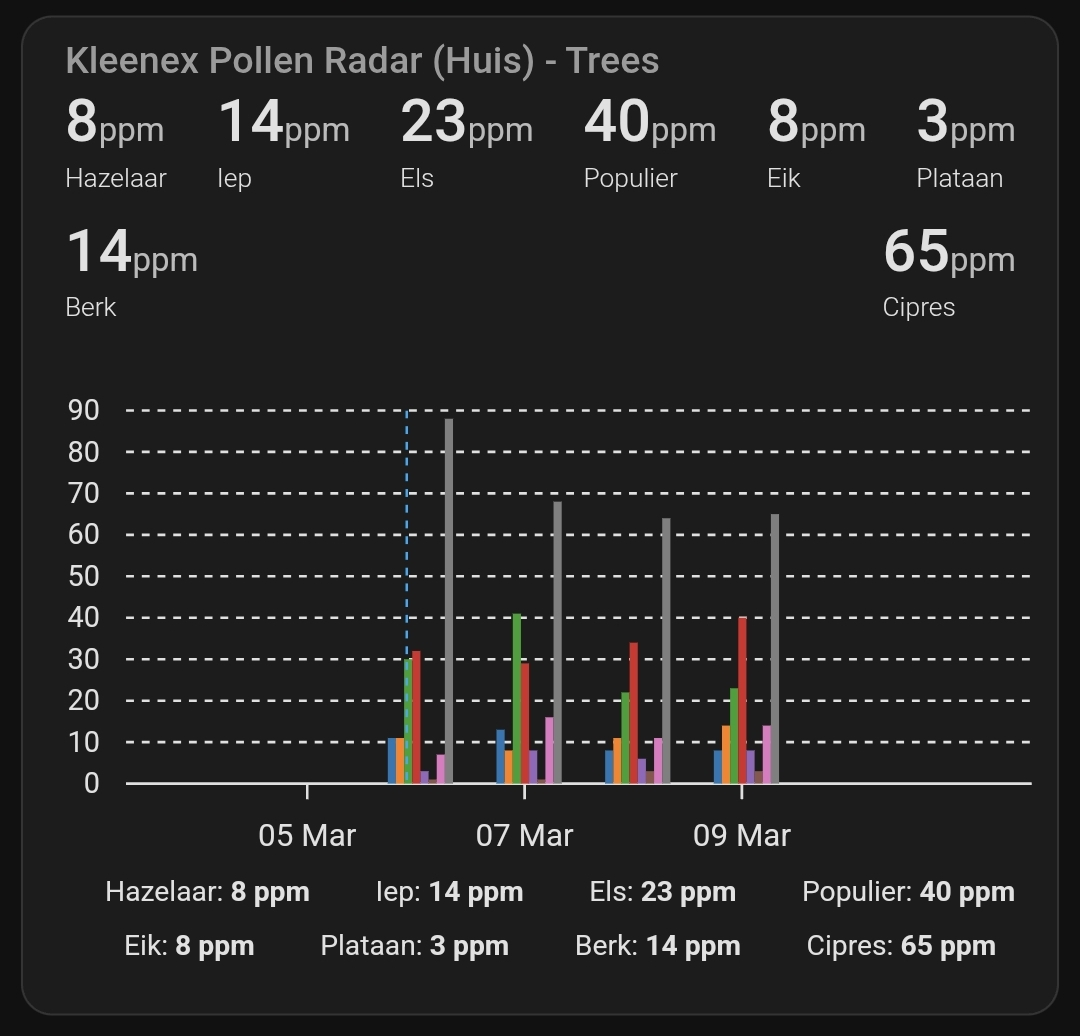
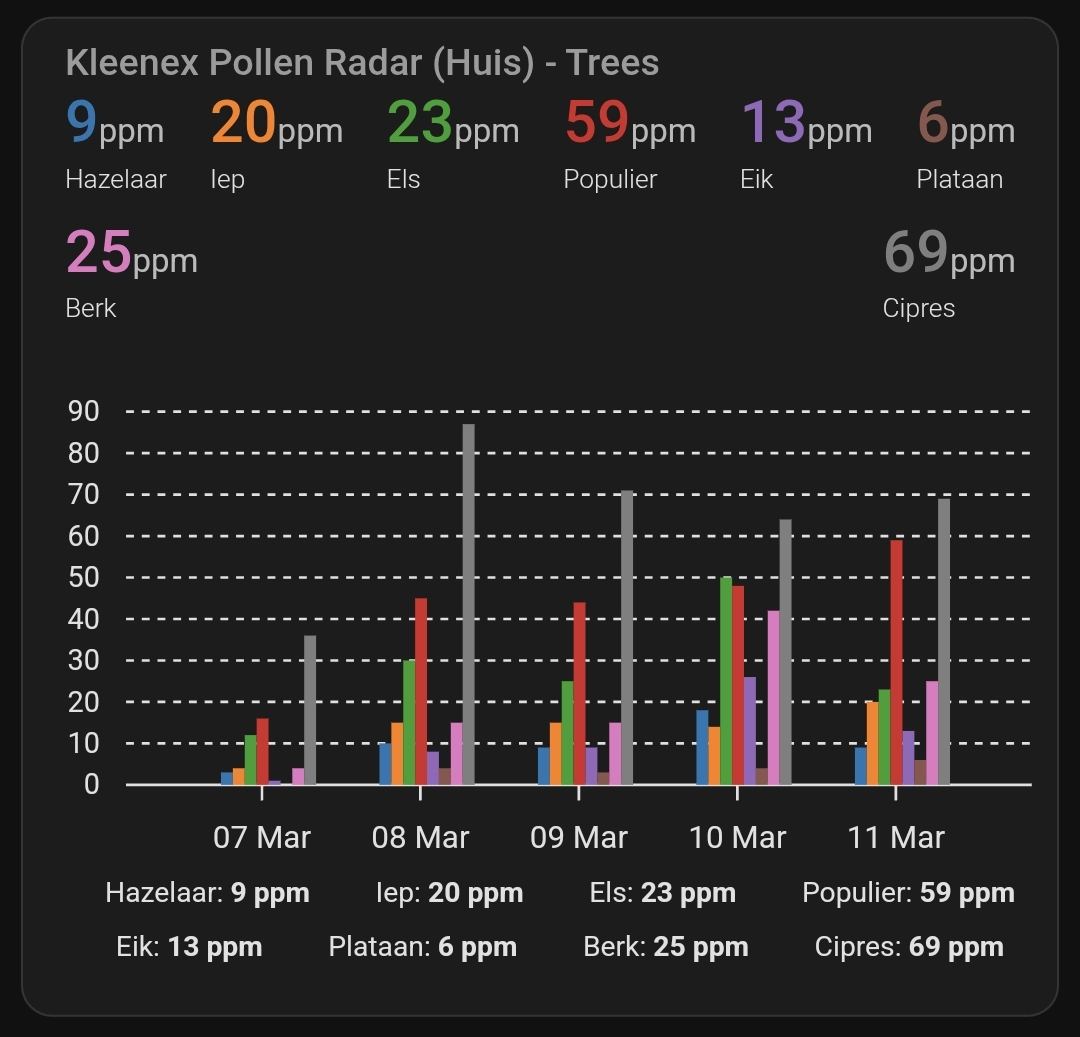
HA integration Kleenex

diff --git a/homeassistant/homeassistant_hacs_kleenex.md b/homeassistant/homeassistant_hacs_kleenex.md
@@ -13,8 +13,6 @@ image: /homeassistant/images_kleenex/kleenex_advanced_presentation_high.jpg
 </a>
 <a href="index"><img src="images/home_assistant_logo.png" style="float: right;margin-left:20px" alt="Home Assistant logo" height="100px"></a>
 
-> There is a bug in the latest 2025.3.0 release, which breaks this integration!
-
 Here you find Home Assistant (lovelace) dashboard examples related to the custom HACS integration **Kleenex Pollen Radar** which you can easily use on your own dashboards.
 
 This integration shows Pollen information for grass, weeds and trees.
@@ -126,9 +124,14 @@ This value will be used as text, but also be used for different colors and an in
 #### Alternative icons
 
 If you want an alternative icon for weeds you can also use `mdi:sprout`.
+Or use `mdi:flower-pollen`.
 
-<a href="images_kleenex/alternative_weed_icon.jpg">
-<img src="images_kleenex/alternative_weed_icon.jpg" alt="alternative icon" width="100px">
+<a href="images_kleenex/sprout_icon.jpg">
+<img src="images_kleenex/sprout_icon.jpg" alt="alternative icon mdi:sprout" width="100px">
+</a>
+
+<a href="images_kleenex/flower-pollen_icon.jpg">
+<img src="images_kleenex/flower-pollen_icon.jpg" alt="alternative icon mdi:flower-pollen" width="100px">
 </a>
 
 #### Helper sensors
@@ -464,77 +467,94 @@ header:
   show: true
   title: Kleenex Pollen Radar (Huis) - Trees
   show_states: true
+  colorize_states: true
 now:
   show: true
-graph_span: 5d
+graph_span: 4d
 span:
   start: day
-  offset: +0d
+  offset: +1d
 series:
   - name: Hazelaar
     entity: sensor.kleenex_pollen_radar_huis_trees
-    attribute: forecast
     type: column
-    color: "#1f77b4"
-    data_generator: >
-      return entity.attributes.forecast.map(d => [new Date(d.date).getTime(),
-      d.details.find(t => t.name === "Hazelaar").value]);
+    color: "#1f77b4" # Blue
+    data_generator: |
+      let data = [];
+      if (entity.attributes.current) {
+        data.push([new Date(entity.attributes.current.date).getTime(), entity.attributes.current.details.find(t => t.name === "Hazelaar").value]);
+      }
+      return data.concat(entity.attributes.forecast.map(d => [new Date(d.date).getTime(), d.details.find(t => t.name === "Hazelaar").value]));
   - name: Iep
     entity: sensor.kleenex_pollen_radar_huis_trees
-    attribute: forecast
     type: column
-    color: "#ff7f0e"
-    data_generator: >
-      return entity.attributes.forecast.map(d => [new Date(d.date).getTime(),
-      d.details.find(t => t.name === "Iep").value]);
+    color: "#ff7f0e" # Orange
+    data_generator: |
+      let data = [];
+      if (entity.attributes.current) {
+        data.push([new Date(entity.attributes.current.date).getTime(), entity.attributes.current.details.find(t => t.name === "Iep").value]);
+      }
+      return data.concat(entity.attributes.forecast.map(d => [new Date(d.date).getTime(), d.details.find(t => t.name === "Iep").value]));
   - name: Els
     entity: sensor.kleenex_pollen_radar_huis_trees
-    attribute: forecast
     type: column
-    color: "#2ca02c"
-    data_generator: >
-      return entity.attributes.forecast.map(d => [new Date(d.date).getTime(),
-      d.details.find(t => t.name === "Els").value]);
+    color: "#2ca02c" # Green
+    data_generator: |
+      let data = [];
+      if (entity.attributes.current) {
+        data.push([new Date(entity.attributes.current.date).getTime(), entity.attributes.current.details.find(t => t.name === "Els").value]);
+      }
+      return data.concat(entity.attributes.forecast.map(d => [new Date(d.date).getTime(), d.details.find(t => t.name === "Els").value]));
   - name: Populier
     entity: sensor.kleenex_pollen_radar_huis_trees
-    attribute: forecast
     type: column
-    color: "#d62728"
-    data_generator: >
-      return entity.attributes.forecast.map(d => [new Date(d.date).getTime(),
-      d.details.find(t => t.name === "Populier").value]);
+    color: "#d62728" # Red
+    data_generator: |
+      let data = [];
+      if (entity.attributes.current) {
+        data.push([new Date(entity.attributes.current.date).getTime(), entity.attributes.current.details.find(t => t.name === "Populier").value]);
+      }
+      return data.concat(entity.attributes.forecast.map(d => [new Date(d.date).getTime(), d.details.find(t => t.name === "Populier").value]));
   - name: Eik
     entity: sensor.kleenex_pollen_radar_huis_trees
-    attribute: forecast
     type: column
-    color: "#9467bd"
-    data_generator: >
-      return entity.attributes.forecast.map(d => [new Date(d.date).getTime(),
-      d.details.find(t => t.name === "Eik").value]);
+    color: "#9467bd" # Purple
+    data_generator: |
+      let data = [];
+      if (entity.attributes.current) {
+        data.push([new Date(entity.attributes.current.date).getTime(), entity.attributes.current.details.find(t => t.name === "Eik").value]);
+      }
+      return data.concat(entity.attributes.forecast.map(d => [new Date(d.date).getTime(), d.details.find(t => t.name === "Eik").value]));
   - name: Plataan
     entity: sensor.kleenex_pollen_radar_huis_trees
-    attribute: forecast
     type: column
-    color: "#8c564b"
-    data_generator: >
-      return entity.attributes.forecast.map(d => [new Date(d.date).getTime(),
-      d.details.find(t => t.name === "Plataan").value]);
+    color: "#8c564b" # Brown
+    data_generator: |
+      let data = [];
+      if (entity.attributes.current) {
+        data.push([new Date(entity.attributes.current.date).getTime(), entity.attributes.current.details.find(t => t.name === "Plataan").value]);
+      }
+      return data.concat(entity.attributes.forecast.map(d => [new Date(d.date).getTime(), d.details.find(t => t.name === "Plataan").value]));
   - name: Berk
     entity: sensor.kleenex_pollen_radar_huis_trees
-    attribute: forecast
     type: column
-    color: "#e377c2"
-    data_generator: >
-      return entity.attributes.forecast.map(d => [new Date(d.date).getTime(),
-      d.details.find(t => t.name === "Berk").value]);
+    color: "#e377c2" # Pink
+    data_generator: |
+      let data = [];
+      if (entity.attributes.current) {
+        data.push([new Date(entity.attributes.current.date).getTime(), entity.attributes.current.details.find(t => t.name === "Berk").value]);
+      }
+      return data.concat(entity.attributes.forecast.map(d => [new Date(d.date).getTime(), d.details.find(t => t.name === "Berk").value]));
   - name: Cipres
     entity: sensor.kleenex_pollen_radar_huis_trees
-    attribute: forecast
     type: column
-    color: "#7f7f7f"
-    data_generator: >
-      return entity.attributes.forecast.map(d => [new Date(d.date).getTime(),
-      d.details.find(t => t.name === "Cipres").value]);
+    color: "#7f7f7f" # Grey
+    data_generator: |
+      let data = [];
+      if (entity.attributes.current) {
+        data.push([new Date(entity.attributes.current.date).getTime(), entity.attributes.current.details.find(t => t.name === "Cipres").value]);
+      }
+      return data.concat(entity.attributes.forecast.map(d => [new Date(d.date).getTime(), d.details.find(t => t.name === "Cipres").value]));
 apex_config:
   chart:
     type: bar
@@ -542,7 +562,7 @@ apex_config:
     type: datetime
   plotOptions:
     bar:
-      columnWidth: 60%
+      columnWidth: "60%" # Adjust for better visibility
   tooltip:
     enabled: true
   legend:
@@ -550,15 +570,15 @@ apex_config:
     position: bottom
     markers:
       fillColors:
-        - "#1f77b4"
-        - "#ff7f0e"
-        - "#2ca02c"
-        - "#d62728"
-        - "#9467bd"
-        - "#8c564b"
-        - "#e377c2"
-        - "#7f7f7f"
-{% endraw %}
+        - "#1f77b4" # Hazelaar
+        - "#ff7f0e" # Iep
+        - "#2ca02c" # Els
+        - "#d62728" # Populier
+        - "#9467bd" # Eik
+        - "#8c564b" # Plataan
+        - "#e377c2" # Berk
+        - "#7f7f7f" # Cipres
+  {% endraw %}
 ```
 
 <br>
@@ -568,7 +588,8 @@ Good luck with the integration!
 ## Credits
 
 I got the ideas for the presentations from the HA forum:
-[[Help request] Pollen sensor Dutch hooikoortsradar.nl](https://community.home-assistant.io/t/help-request-pollen-sensor-dutch-hooikoortsradar-nl/524633)
+[[Help request] Pollen sensor Dutch hooikoortsradar.nl](https://community.home-assistant.io/t/help-request-pollen-sensor-dutch-hooikoortsradar-nl/524633)\
+If you got any questions you can ask them also here.
 
 ---
 [^^ Top](#table-of-contents)

diff --git a/homeassistant/index.md b/homeassistant/index.md
@@ -16,7 +16,7 @@ One by one, I will add them here.
 I created dashboards with all kinds of elements in it:
 * [Layout](homeassistant_dashboard_layout) (Stacks, grid, rows, compact presentations)
 * Templates:
-  * [Template examples](homeassistant_templates) 
+  * [Template examples](homeassistant_templates) creating, debugger, practical examples 
   * [Dutch examples](homeassistant_dashboard_templates_nl) (NL: welkomst tekst, weer, kleding advies)
 * Weather:
   * [External sites](homeassistant_dashboard_weather) (Thunderstorm)
@@ -25,6 +25,7 @@ I created dashboards with all kinds of elements in it:
 * [HACS custom elements](homeassistant_dashboard_hacs) (Overview of some very useful custom HACS elements)
   * [Auto entities](homeassistant_dashboard_card_auto-entities)
   * [Mushroom](homeassistant_dashboard_card_mushroom)
+  * [Pollen Radar](homeassistant_hacs_kleenex.md)
   * [Afvalbeheer](homeassistant_hacs_afvalbeheer)
 * [Grafana](homeassistant_dashboard_grafana) (Grafana graph integration)
 * [Styling](homeassistant_dashboard_styling) (Changing the color of icons, status, backgrounds etc.)
@@ -38,6 +39,10 @@ I created dashboards with all kinds of elements in it:
 * [Random examples](homeassistant_dashboard_examples) (The latest news)
 * [Web scraper](homeassistant_web_scraper) (Show website data on your dashboard)
 * [Pientere Tuinen](homeassistant_dashboard_pientere_tuinen) (Dutch garden and soil project)
+
+---
+
+* [Which hardware to run Home Assistant on?](homeassistant_hardware)
 
 ---
 Other Home Assistant integrations
